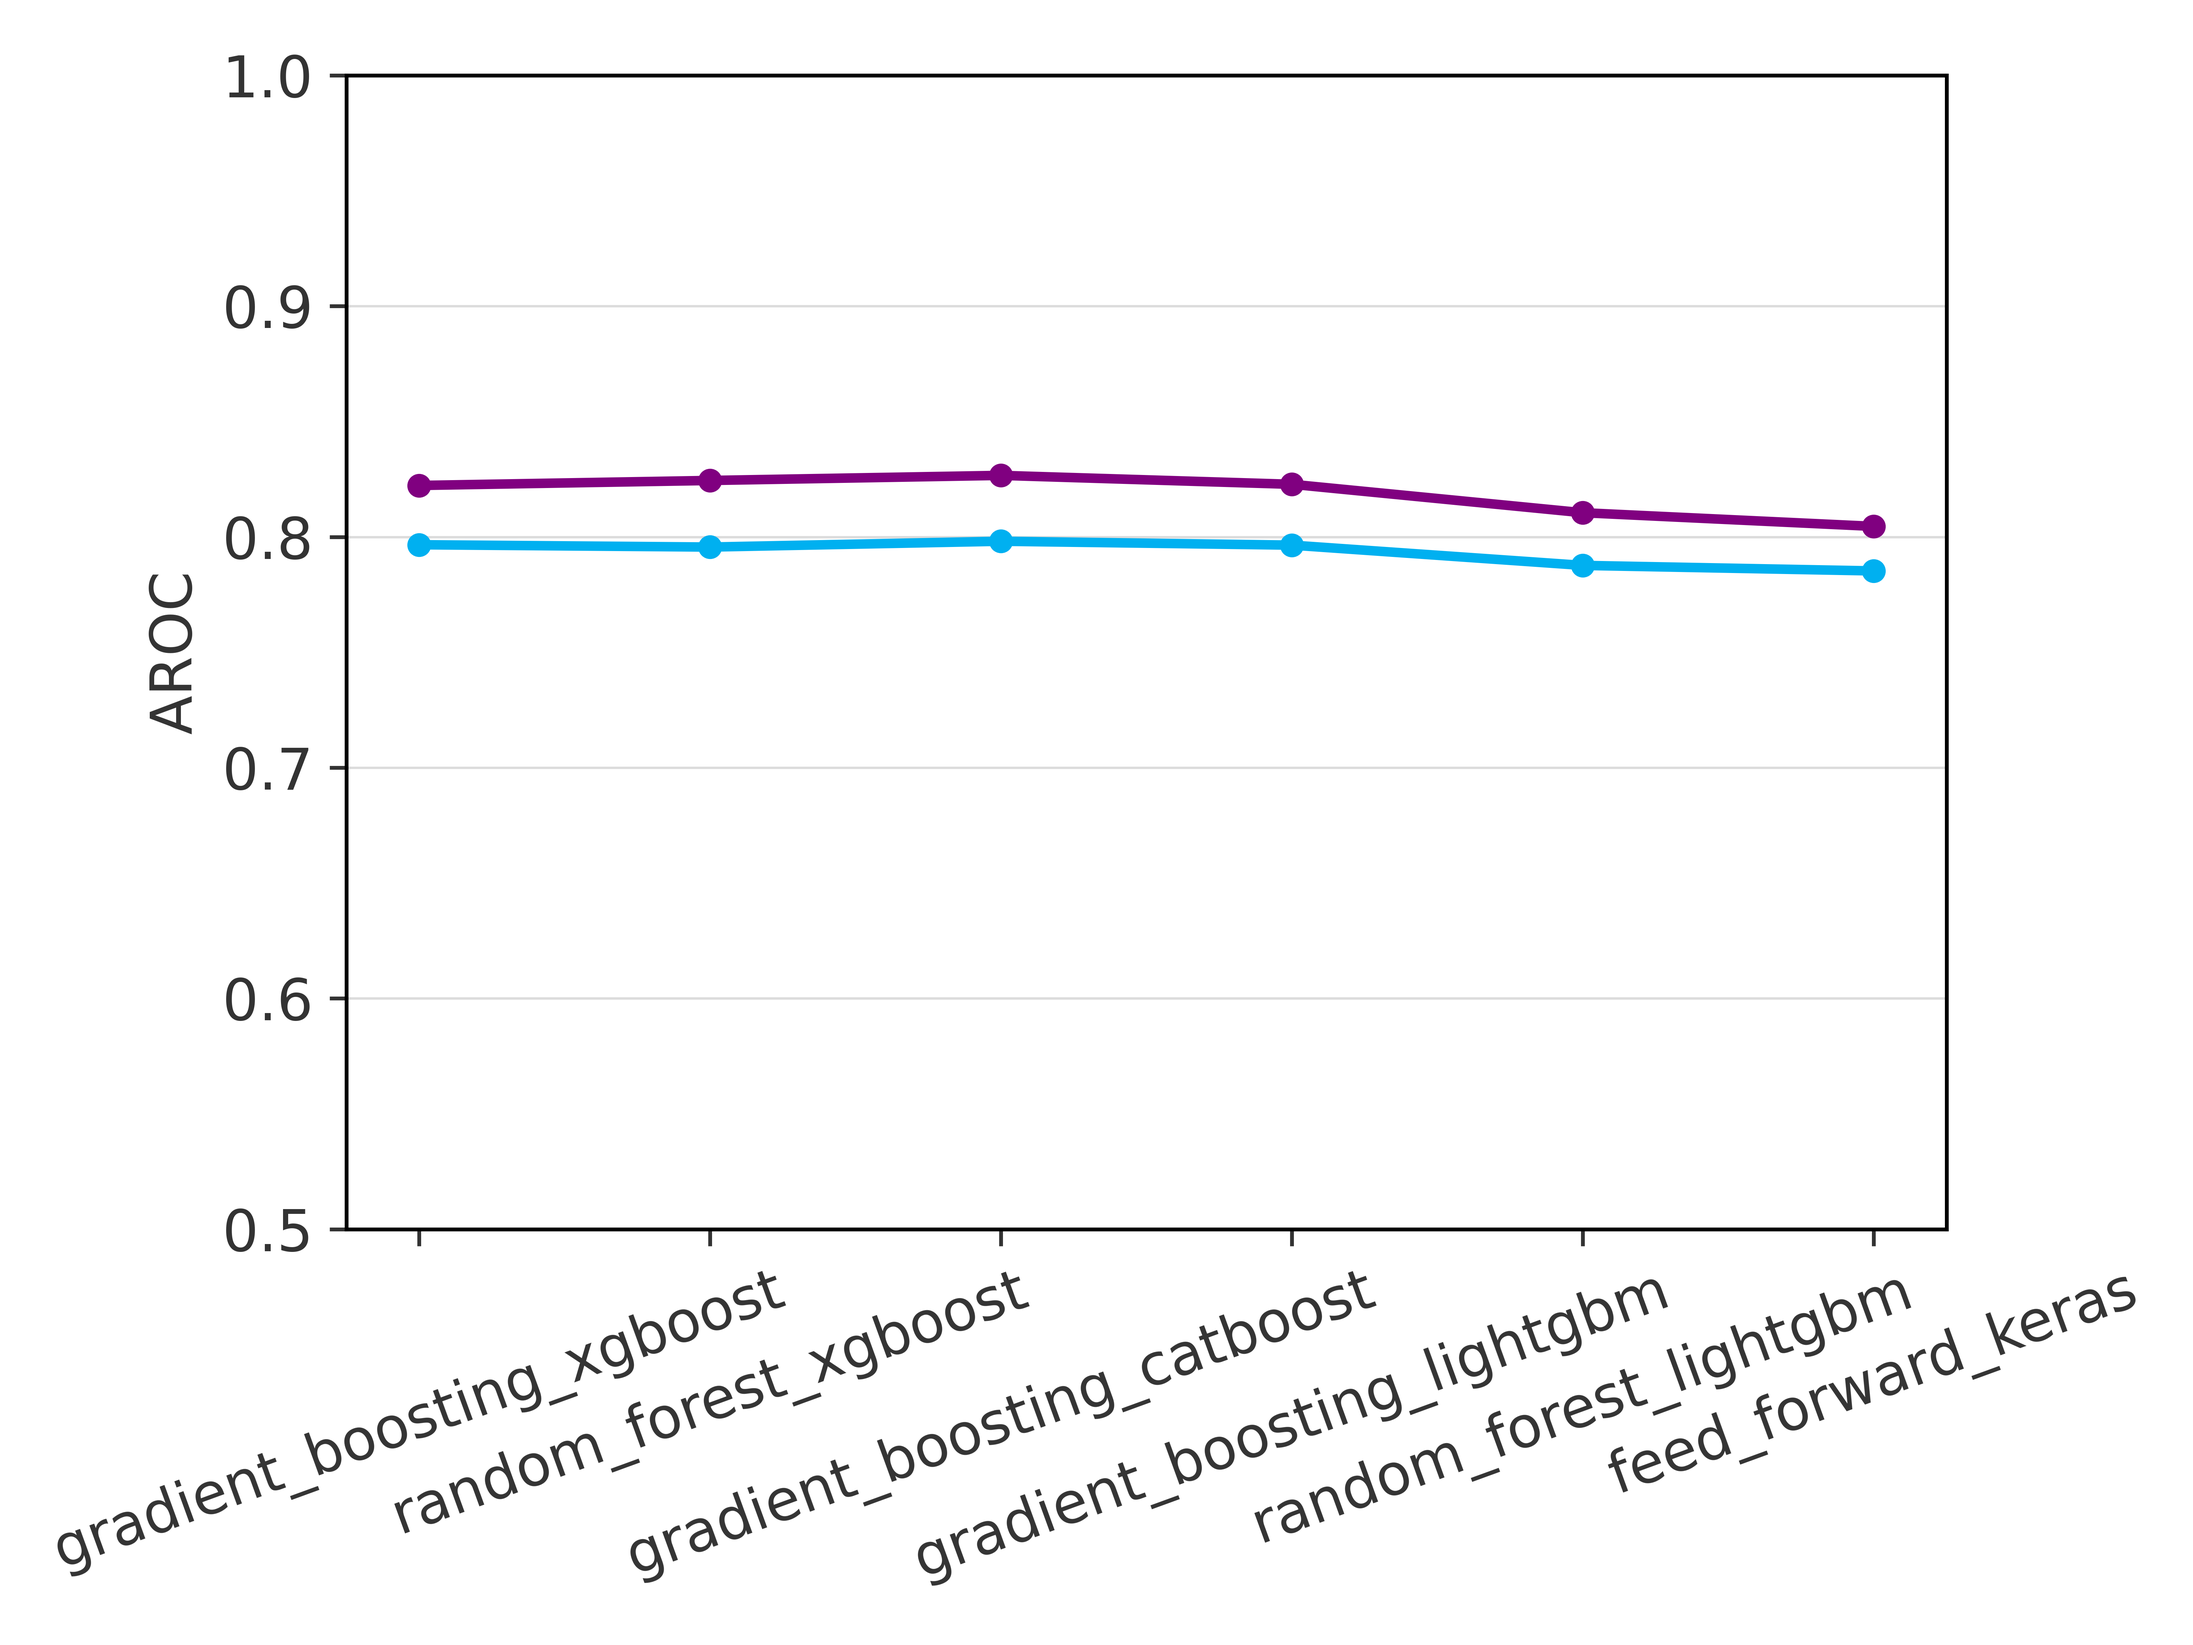
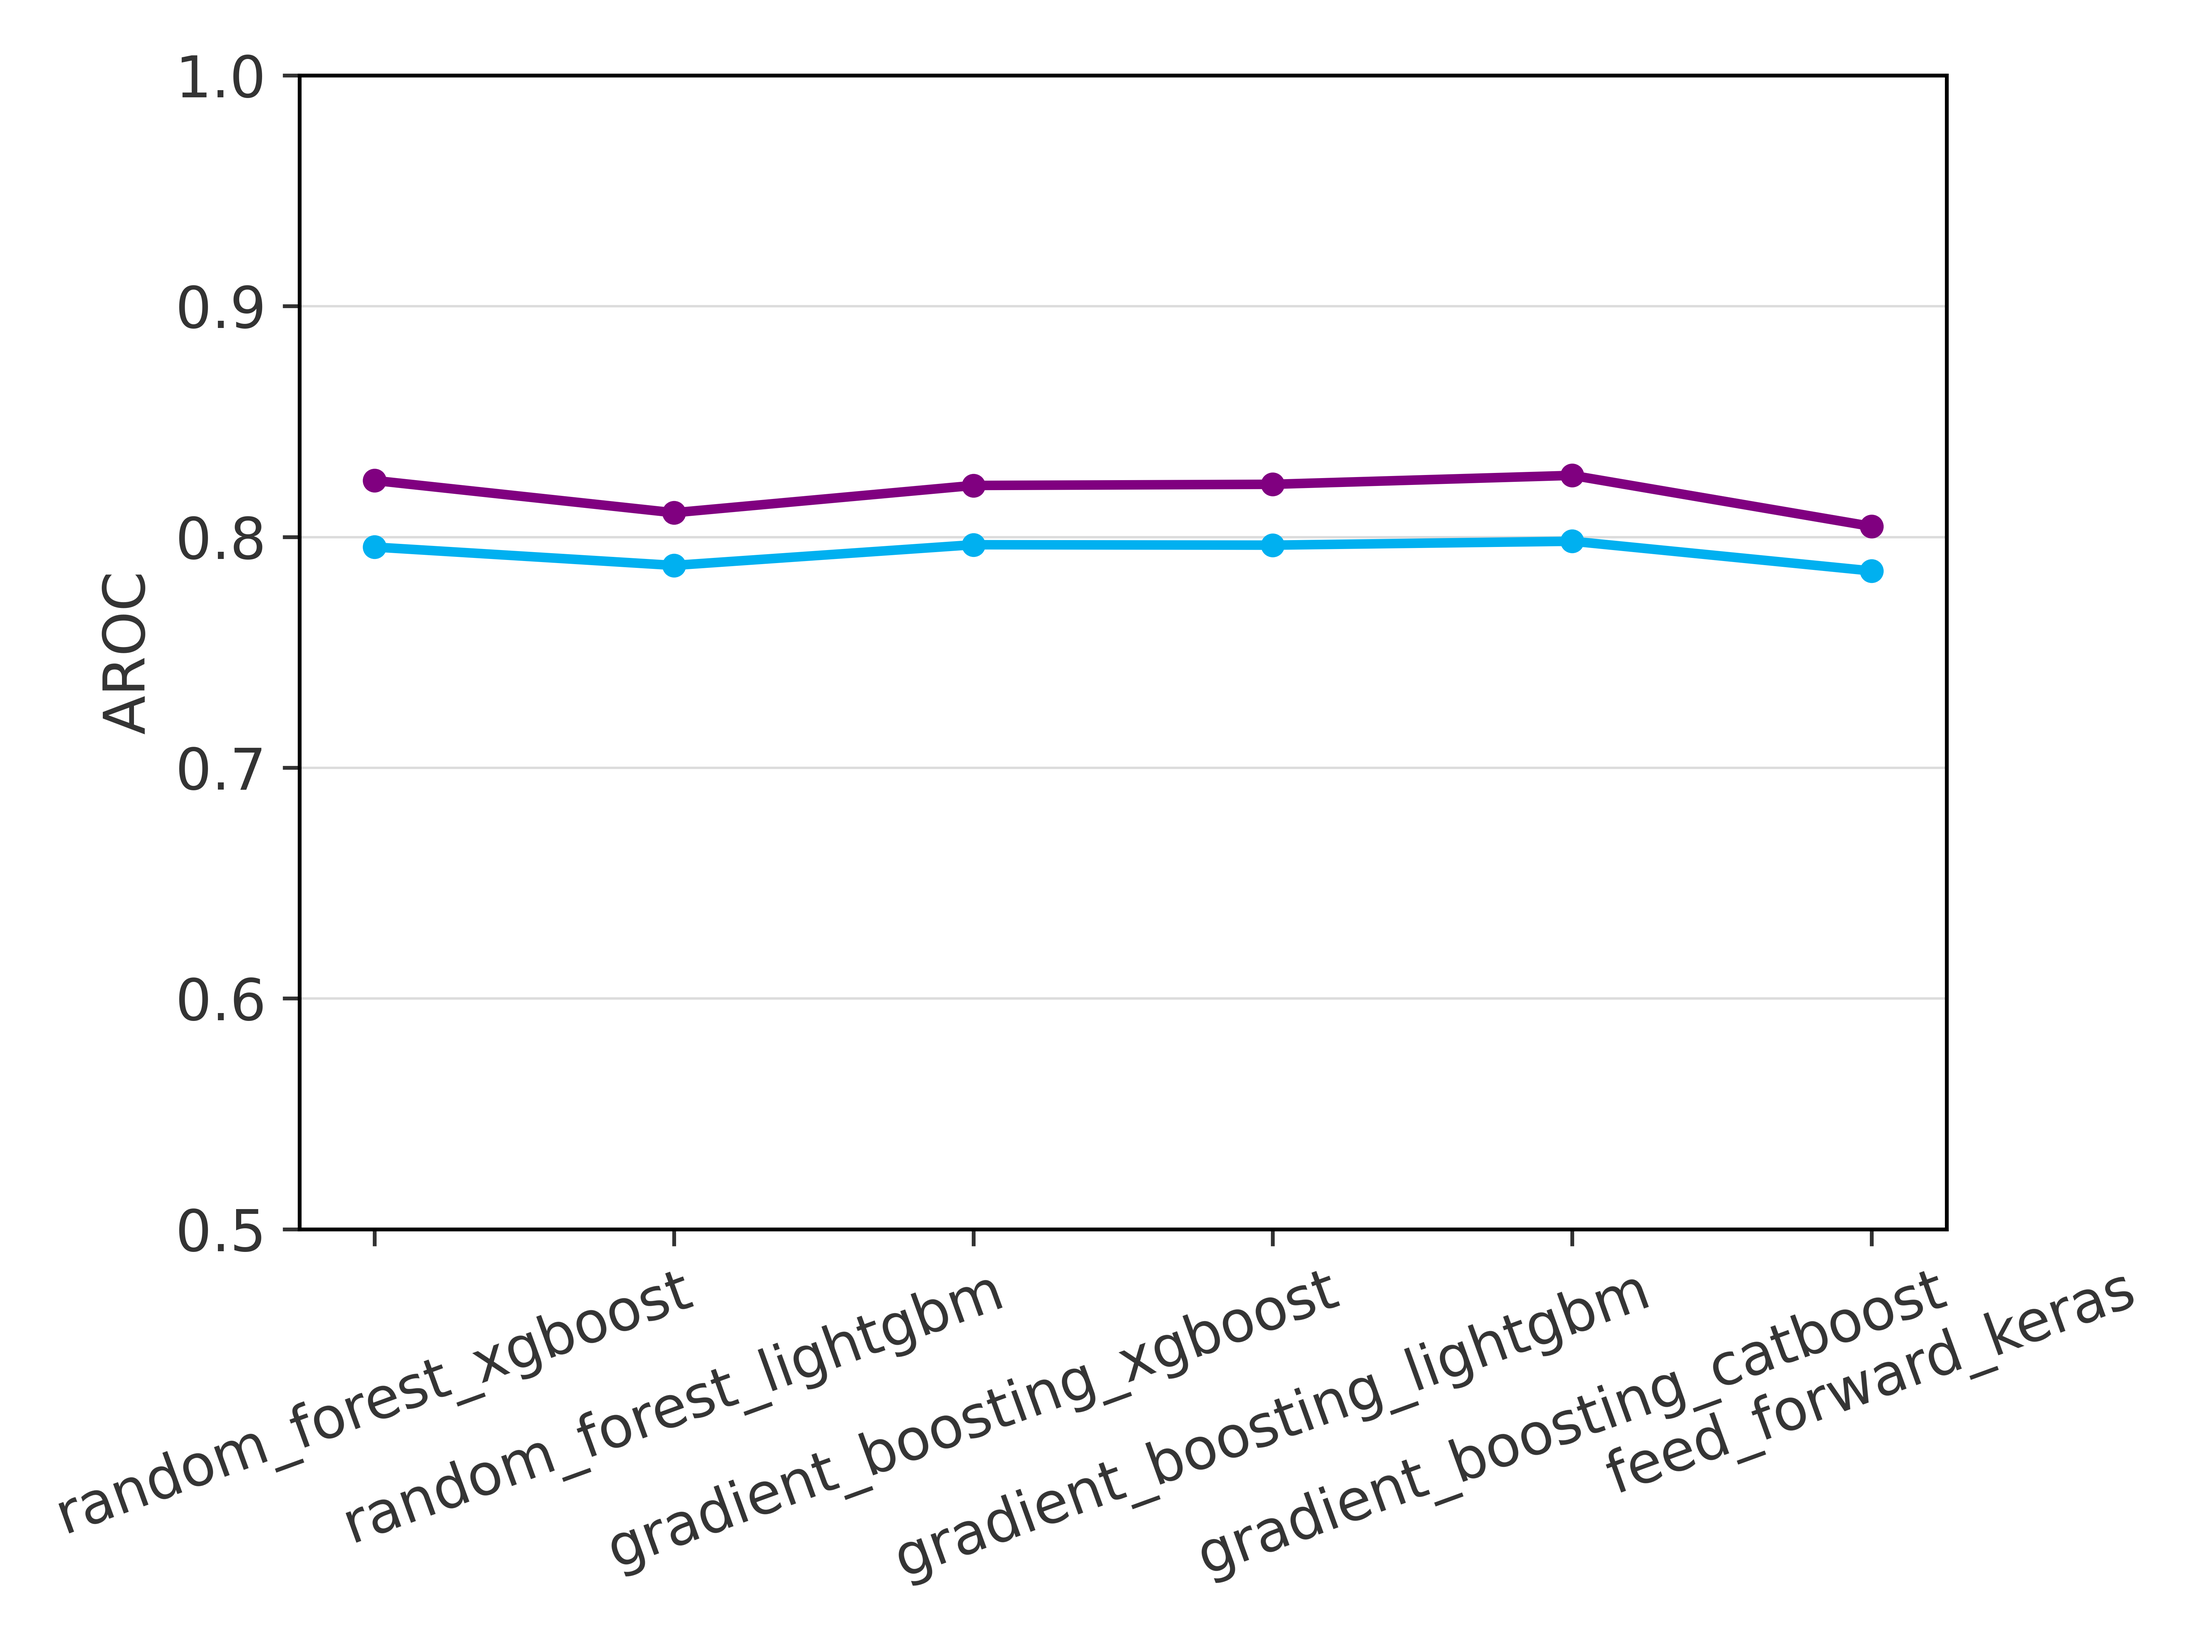
Modified some of the verification figures (frequency bias and distribution of yes-events)

diff --git a/code/plot/23_prob_ff_hydro_short_fc_verif.py b/code/plot/23_prob_ff_hydro_short_fc_verif.py
@@ -9,10 +9,9 @@ from utils.verif_scores import (contingency_table_probabilistic,
                                                       hit_rate, 
                                                       false_alarm_rate,
                                                       reliability_diagram,
-                                                      frequency_bias_overall,
                                                       aroc_trapezium
                                                       )
-from matplotlib.ticker import FuncFormatter, MultipleLocator, NullFormatter
+from matplotlib.ticker import FuncFormatter
 
 ########################################################################################
 # CODE DESCRIPTION
@@ -47,7 +46,7 @@ from matplotlib.ticker import FuncFormatter, MultipleLocator, NullFormatter
 ########################################################################################
 # INPUT PARAMETERS
 num_bs = 10
-ml_trained_list = ["gradient_boosting_xgboost", "random_forest_xgboost", "gradient_boosting_catboost", "gradient_boosting_lightgbm", "random_forest_lightgbm", "feed_forward_keras"]
+ml_trained_list = ["random_forest_xgboost", "random_forest_lightgbm", "gradient_boosting_xgboost", "gradient_boosting_lightgbm", "gradient_boosting_catboost", "feed_forward_keras"]
 git_repo = "/ec/vol/ecpoint_dev/mofp/phd/probability_of_flash_flood"
 dir_in = "data/processed/13_prob_ff_hydro_short_fc_retrain_best_kfold"
 dir_out = "data/plot/23_prob_ff_hydro_short_fc_verif"
@@ -211,8 +210,8 @@ for loss_func in ["bce", "weighted_bce"]:
                   plt.close()
 
                   # Computing the frequency bias
-                  fb_train_all.append(frequency_bias_overall(obs_train, fc_prob_train))
-                  fb_test_all.append(frequency_bias_overall(obs_test, fc_prob_test))
+                  fb_train_all.append(np.sum(fc_train) / np.sum(obs_train))
+                  fb_test_all.append( np.sum(fc_test) / np.sum(obs_test))
 
 
             # Plotting the overall scores - AROC
@@ -236,6 +235,7 @@ for loss_func in ["bce", "weighted_bce"]:
             plt.tick_params(axis='y', colors='#333333', labelsize=12)
             plt.xticks(rotation=20)
             plt.grid(axis='y', linewidth=0.5, color='gainsboro')
+            plt.ylim([-0.005,0.07])
             plt.tight_layout()
             plt.savefig(f'{dir_out_temp}/auprc.png', dpi=1000)
             plt.close()
@@ -279,6 +279,6 @@ for loss_func in ["bce", "weighted_bce"]:
                         )
             for patch, color in zip(bp['boxes'], colour_all):
                   patch.set_facecolor(color)
-            plt.xlim([-0.1, 2.5])
+            plt.xlim([-0.1, 15])
             plt.savefig(f'{dir_out_temp}/fc_prob_distr.png', dpi=1000)
             plt.close()
